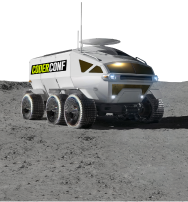
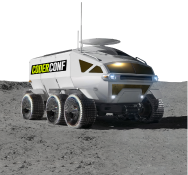
arreglo del proyecto en general

diff --git a/index.html b/index.html
@@ -79,7 +79,7 @@
             <h4 class="threePage-logo-h4">SOBRE MARKETING, DISEÑO, DESARROLLO, PRODUCTO, SUSTENTABILIDAD Y MÁS</h4>
         </div>
         <div class="threePage-imagen">
-            <img src="./images/autoEspacialMobile.png" alt="Imagen de auto espacial">
+            <img src="./images/autoEspacialMobile.png" class="threePage-imagen-img" alt="Imagen de auto espacial">
         </div>
     </section>
     <!-- Cuarta página (Speakers + Invitado especial + invitados) -->
@@ -286,7 +286,7 @@
             </div>
         </div>
         <div class="footerPage-coderhouse">
-            <h2 class="footerPage-h2"><img src="./images/coderconf-mobile.png" alt="Logo Coderhouse"></h2>
+            <h2 class="footerPage-h2"><img src="./images/coderhouseBlancoMobile.png" alt="Logo Coderhouse"></h2>
             <div class="footerPage-div">
                 <h3 class="footerPage-div-h3">Nosotros</h3>
                 <h3 class="footerPage-div-h3">Comunidad</h3>

diff --git a/css/style.css b/css/style.css
@@ -132,7 +132,7 @@ table {
   grid-area: onePage;
   width: 100%;
   height: 100vh;
-  background-image: url(../images/cascoIndex.png);
+  background-image: url(../images/casco2.png);
   background-position: center;
   background-repeat: no-repeat;
   background-size: cover;
@@ -241,7 +241,7 @@ table {
 
 .threePage {
   grid-area: threePage;
-  padding: 10px;
+  padding: 10px 0px;
   width: 100%;
   height: 100vh;
   background-color: #F2F2F2; }
@@ -256,12 +256,15 @@ table {
     .threePage .threePage-logo .threePage-logo-h4 {
       text-align: center; }
   .threePage .threePage-imagen {
-    height: 50%;
+    width: 100%;
+    height: 50vh;
     display: flex;
     justify-content: center; }
-  .threePage .threePage-imagen {
+  .threePage .threePage-imagen-img {
     background-position: center;
-    background-repeat: no-repeat; }
+    background-repeat: no-repeat;
+    background-size: cover;
+    width: 100%; }
 
 .sixPage {
   width: 100%;

diff --git a/scss/_threePage.scss b/scss/_threePage.scss
@@ -1,6 +1,6 @@
 .threePage {
     grid-area: threePage;
-    padding: 10px;
+    padding: 10px 0px;
     width: 100%;
     height: 100vh;
     background-color: #F2F2F2;
@@ -18,12 +18,15 @@
         }
     }
     .threePage-imagen {
-        height: 50%;
+        width: 100%;
+        height: 50vh;
         display: flex;
         justify-content: center;
     }
-    .threePage-imagen {
+    .threePage-imagen-img {
         background-position: center;
         background-repeat: no-repeat;
+        background-size: cover;
+        width: 100%;
     }
 }

diff --git a/scss/_onePage.scss b/scss/_onePage.scss
@@ -4,7 +4,7 @@
     grid-area: onePage;
     width: 100%;
     height: 100vh;
-    background-image: url(../images/cascoIndex.png);
+    background-image: url(../images/casco2.png);
     background-position: center;
     background-repeat: no-repeat;
     background-size: cover;
